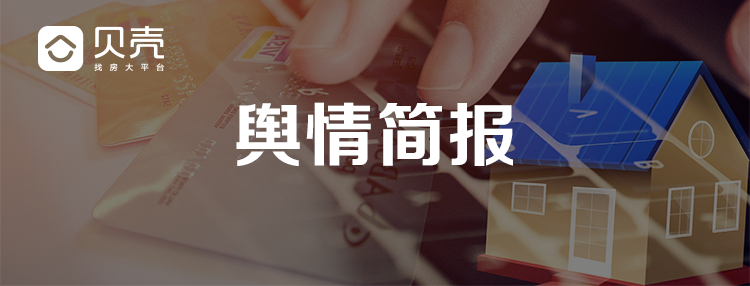
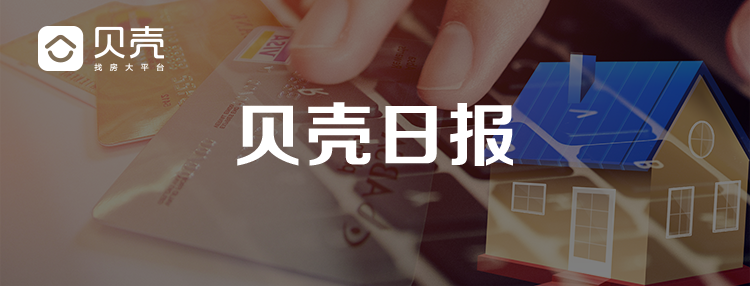
Add files via upload

Changed region(s): [[0.3067, 0.3357, 0.6133, 0.5874]]

diff --git a/sd/news.html b/sd/news.html
@@ -2,7 +2,7 @@
 <html>
 	<head>
 		<meta charset="UTF-8">
-		<title>贝壳舆情简报</title>
+		<title>贝壳日报</title>
 		<link rel="icon" href="img/logo.ico" type="img/x-ico" />
 		<link rel="shortcut icon" href="img/logo.ico" type="image/x-icon"/>
 		<meta name="viewport" content="width=device-width, initial-scale=1">
@@ -24,7 +24,7 @@
 			.rods{  padding-right:20px;width: 100px;color: #fff;border-top-left-radius:3px;border-top-right-radius:3px; background: rgb(46,114,247);  line-height: 30px; text-align: center; }
 			.rod{position: relative; margin-bottom: 10px;}
 			.rodsdiv{ height: 2px; position: absolute; bottom: 0px; background: rgb(46,114,247) ; width: 100%; }
-			.col-xs-12{ line-height: 16px; margin-bottom: 10px; }
+			.col-xs-12{ line-height: 15px; margin-bottom: 10px; }
 			.container{ margin: 0 auto; }
 			.col-xs-12>div,.col-xs-12>a{ padding-left: 20px;}
 			.box{ margin-top: 60px;}
@@ -46,7 +46,7 @@
 			 .col-xs-12 > a{ padding-left: 25px;}
 			.hot .col-xs-12>.color_font_one{ background-image: none;padding: 0;}
 			a{ padding-left: 30px;margin-left: 15px;; background-image: url("img/yun.png"); -webkit-background-size: 14px;
-			background-size: 16px;padding-right: 10px; background-repeat: no-repeat; background-position:4px 5px;display: inline-block;}
+			background-size: 16px;padding-right: 10px; background-repeat: no-repeat; background-position:5px 2px;display: inline-block;}
 			.dw{ position: relative;}
 			.container .time{ padding: 0px;position: absolute; bottom:25%;color: #FFFFFF; text-align: center;}
 			.container .time{ display: inline-block; }
@@ -92,6 +92,10 @@
 					</div>
  					<div class="row h">
  					<!--/*舆情概览*/-->
+ 							<div class="mml">
+								<img src="img/yqbf1.png" width="30%" alt="">
+							</div>
+							<div class="col-xs-12 rod"><img src="img/yqfgll.png"  height="23px"  /><div class="rodsdiv"></div></div>
 	 						<div class="col-xs-12"><div><span class="roda">1、</span>跳出经纪行业，互联网平台贝壳找房启幕“新居住”<span>（已安排发布：150篇，目前转载：85篇）</span></div></div>
 						        <div class="col-xs-12"><div><span class="roda">2、</span>贝壳租房发亿元租金红包《我就是演员》观众成最大锦鲤<span>（已安排发布：100篇，目前转载：120篇）</span></div></div>
 						        <div class="col-xs-12"><div><span class="roda">3、</span>贝壳装修“一房一设计”  给消费者“不一样”的家<span>（已安排发布：100篇，目前转载：231篇）</span></div></div>
@@ -372,7 +376,7 @@
 						</div>
 						<p class="col-xs-12 color-pic">
 							<span>【今日亮点】</span>凯德收购星桥腾飞；红星美凯龙与新潮全面合作；
-							<span class="rgitc">————CEO office 战略部</span>
+							
 						</p>
 	 							<!--今日热点  房产-->
 	 						
